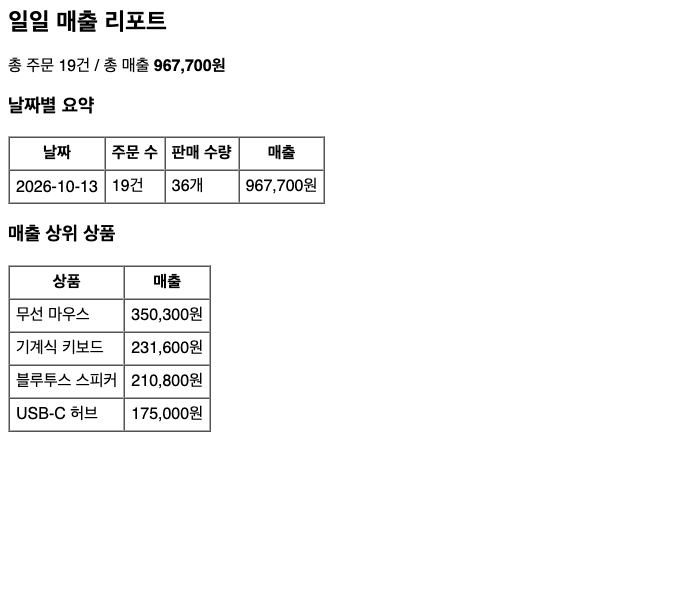
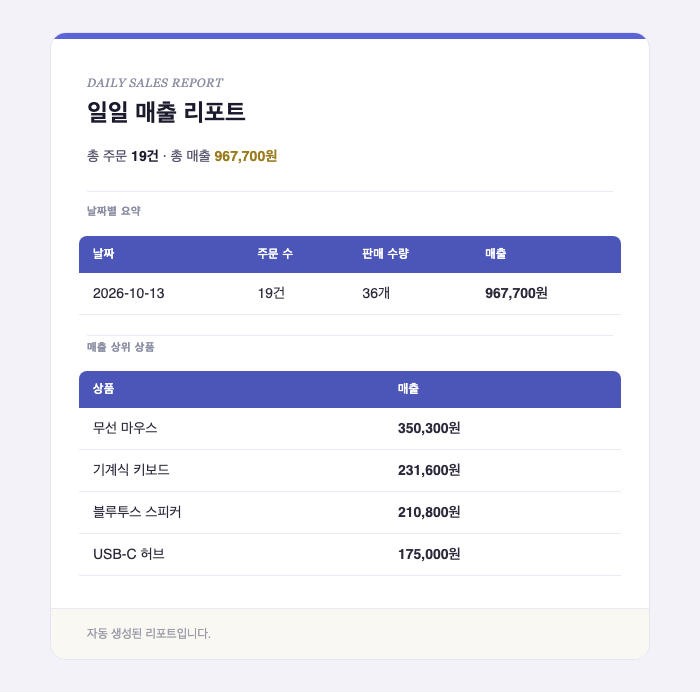
design: 엑셀 리포트/메일 템플릿에 인디고+골드 브랜드 팔레트 적용
03 챗봇과 같은 색 언어로 통일 (헤더 인디고, 합계/강조 골드). 메일은
이메일 클라이언트 호환을 위해 표 기반 레이아웃 + 인라인 스타일로 재작성
(라이트 톤 유지, Outlook 등에서도 안전하게 열리도록). README 스크린샷 갱신.

diff --git a/src/excel_automation/email_report.py b/src/excel_automation/email_report.py
@@ -64,32 +64,109 @@ def build_html_summary(orders: pd.DataFrame) -> str:
         .head(5)
     )
 
+    th_style = (
+        "text-align:left;padding:10px 14px;background:#4C56B8;color:#ffffff;"
+        "font:600 12px/1.4 'Manrope',Helvetica,Arial,sans-serif;"
+        "letter-spacing:0.3px;text-transform:uppercase;"
+    )
+    td_style = (
+        "padding:10px 14px;border-bottom:1px solid #ECE9F4;"
+        "font:14px/1.5 'Manrope',Helvetica,Arial,sans-serif;color:#2B2A3A;"
+    )
+
     rows = "".join(
-        f"<tr><td>{date}</td><td>{count}건</td><td>{qty}개</td>"
-        f"<td>{revenue:,.0f}원</td></tr>"
+        f'<tr><td style="{td_style}">{date}</td><td style="{td_style}">{count}건</td>'
+        f'<td style="{td_style}">{qty}개</td>'
+        f'<td style="{td_style}font-weight:600;">{revenue:,.0f}원</td></tr>'
         for date, count, qty, revenue in summary.itertuples(index=False)
     )
     top_rows = "".join(
-        f"<tr><td>{product}</td><td>{revenue:,.0f}원</td></tr>"
+        f'<tr><td style="{td_style}">{product}</td>'
+        f'<td style="{td_style}font-weight:600;">{revenue:,.0f}원</td></tr>'
         for product, revenue in top_products.items()
     )
 
+    # 이메일 클라이언트(특히 Outlook)는 flex/grid/그라디언트를 지원하지 않으므로
+    # 표 기반 레이아웃 + 인라인 스타일로 작성한다. 03 챗봇과 같은 인디고/골드
+    # 팔레트를 쓰되, 폰트가 차단돼도 무난하도록 안전한 폴백을 둔다.
     return f"""\
 <html>
-<body style="font-family: sans-serif;">
-  <h2>일일 매출 리포트</h2>
-  <p>총 주문 {total_orders}건 / 총 매출 <b>{total_revenue:,.0f}원</b></p>
+<head>
+<meta charset="utf-8">
+<style>
+  @media (max-width: 600px) {{
+    .container {{ width: 100% !important; }}
+  }}
+</style>
+</head>
+<body style="margin:0;padding:32px 16px;background:#F3F2F8;">
+  <table role="presentation" class="container" width="600" cellpadding="0" cellspacing="0"
+         style="margin:0 auto;max-width:600px;background:#ffffff;border:1px solid #E7E4F2;border-radius:16px;overflow:hidden;">
+    <tr>
+      <td style="height:6px;background:#5B63D6;font-size:0;line-height:0;">&nbsp;</td>
+    </tr>
+    <tr>
+      <td style="padding:36px 36px 24px;">
+        <div style="font:italic 500 12px/1.4 Georgia,'Newsreader',serif;letter-spacing:0.5px;color:#8B8FA3;text-transform:uppercase;margin-bottom:6px;">
+          Daily Sales Report
+        </div>
+        <div style="font:700 24px/1.3 'Manrope',Helvetica,Arial,sans-serif;color:#1C1B2E;margin-bottom:16px;">
+          일일 매출 리포트
+        </div>
+        <div style="font:14px/1.6 'Manrope',Helvetica,Arial,sans-serif;color:#55536B;">
+          총 주문 <b style="color:#1C1B2E;">{total_orders}건</b> · 총 매출
+          <b style="color:#9A7B1E;">{total_revenue:,.0f}원</b>
+        </div>
+      </td>
+    </tr>
 
-  <h3>날짜별 요약</h3>
-  <table border="1" cellpadding="6" cellspacing="0">
-    <tr><th>날짜</th><th>주문 수</th><th>판매 수량</th><th>매출</th></tr>
-    {rows}
-  </table>
+    <tr>
+      <td style="padding:0 36px 8px;">
+        <div style="font:700 11px/1.4 'Manrope',Helvetica,Arial,sans-serif;letter-spacing:0.6px;color:#8B8FA3;text-transform:uppercase;padding-top:12px;border-top:1px solid #ECE9F4;">
+          날짜별 요약
+        </div>
+      </td>
+    </tr>
+    <tr>
+      <td style="padding:8px 28px 20px;">
+        <table role="presentation" width="100%" cellpadding="0" cellspacing="0" style="border-collapse:collapse;">
+          <tr>
+            <th style="{th_style}border-top-left-radius:8px;">날짜</th>
+            <th style="{th_style}">주문 수</th>
+            <th style="{th_style}">판매 수량</th>
+            <th style="{th_style}border-top-right-radius:8px;">매출</th>
+          </tr>
+          {rows}
+        </table>
+      </td>
+    </tr>
 
-  <h3>매출 상위 상품</h3>
-  <table border="1" cellpadding="6" cellspacing="0">
-    <tr><th>상품</th><th>매출</th></tr>
-    {top_rows}
+    <tr>
+      <td style="padding:0 36px 8px;">
+        <div style="font:700 11px/1.4 'Manrope',Helvetica,Arial,sans-serif;letter-spacing:0.6px;color:#8B8FA3;text-transform:uppercase;padding-top:4px;border-top:1px solid #ECE9F4;">
+          매출 상위 상품
+        </div>
+      </td>
+    </tr>
+    <tr>
+      <td style="padding:8px 28px 32px;">
+        <table role="presentation" width="100%" cellpadding="0" cellspacing="0" style="border-collapse:collapse;">
+          <tr>
+            <th style="{th_style}border-top-left-radius:8px;">상품</th>
+            <th style="{th_style}border-top-right-radius:8px;">매출</th>
+          </tr>
+          {top_rows}
+        </table>
+      </td>
+    </tr>
+
+    <tr>
+      <td style="padding:16px 36px;background:#FAF8F2;border-top:1px solid #ECE9F4;">
+        <span style="font:12px/1.5 'Manrope',Helvetica,Arial,sans-serif;color:#9A9AA8;">
+          자동 생성된 리포트입니다.
+        </span>
+      </td>
+    </tr>
   </table>
 </body>
 </html>

diff --git a/src/excel_automation/report.py b/src/excel_automation/report.py
@@ -11,9 +11,13 @@ from openpyxl.worksheet.worksheet import Worksheet
 
 from excel_automation.aggregate import daily_product_summary, daily_summary
 
-HEADER_FILL = PatternFill(start_color="305496", end_color="305496", fill_type="solid")
+# 브랜드 팔레트: 인디고(헤더) + 골드(합계 강조) — 03 챗봇 UI와 통일.
+# 폰트는 지정하지 않는다 (받는 사람 PC에 없는 폰트를 지정하면 깨져 보일 수 있어
+# 기본 폰트를 그대로 둔다 — Numbers 날짜 서식 버그로 한번 데인 교훈).
+HEADER_FILL = PatternFill(start_color="4C56B8", end_color="4C56B8", fill_type="solid")
 HEADER_FONT = Font(color="FFFFFF", bold=True)
-TOTAL_FONT = Font(bold=True)
+TOTAL_FILL = PatternFill(start_color="FBF1D6", end_color="FBF1D6", fill_type="solid")
+TOTAL_FONT = Font(bold=True, color="8A6D1C")
 CURRENCY_FORMAT = "#,##0"
 CURRENCY_COLUMNS = {"unit_price", "total_amount", "revenue_total"}
 
@@ -75,6 +79,9 @@ def _write_sheet(writer: pd.ExcelWriter, df: pd.DataFrame, sheet_name: str) -> W
 
 def _append_total_row(ws: Worksheet, df: pd.DataFrame, numeric_columns: list[str]) -> None:
     total_row = ws.max_row + 1
+    for col_idx in range(1, len(df.columns) + 1):
+        ws.cell(row=total_row, column=col_idx).fill = TOTAL_FILL
+
     ws.cell(row=total_row, column=1, value="합계").font = TOTAL_FONT
     for idx, col in enumerate(df.columns, start=1):
         if col in numeric_columns:
